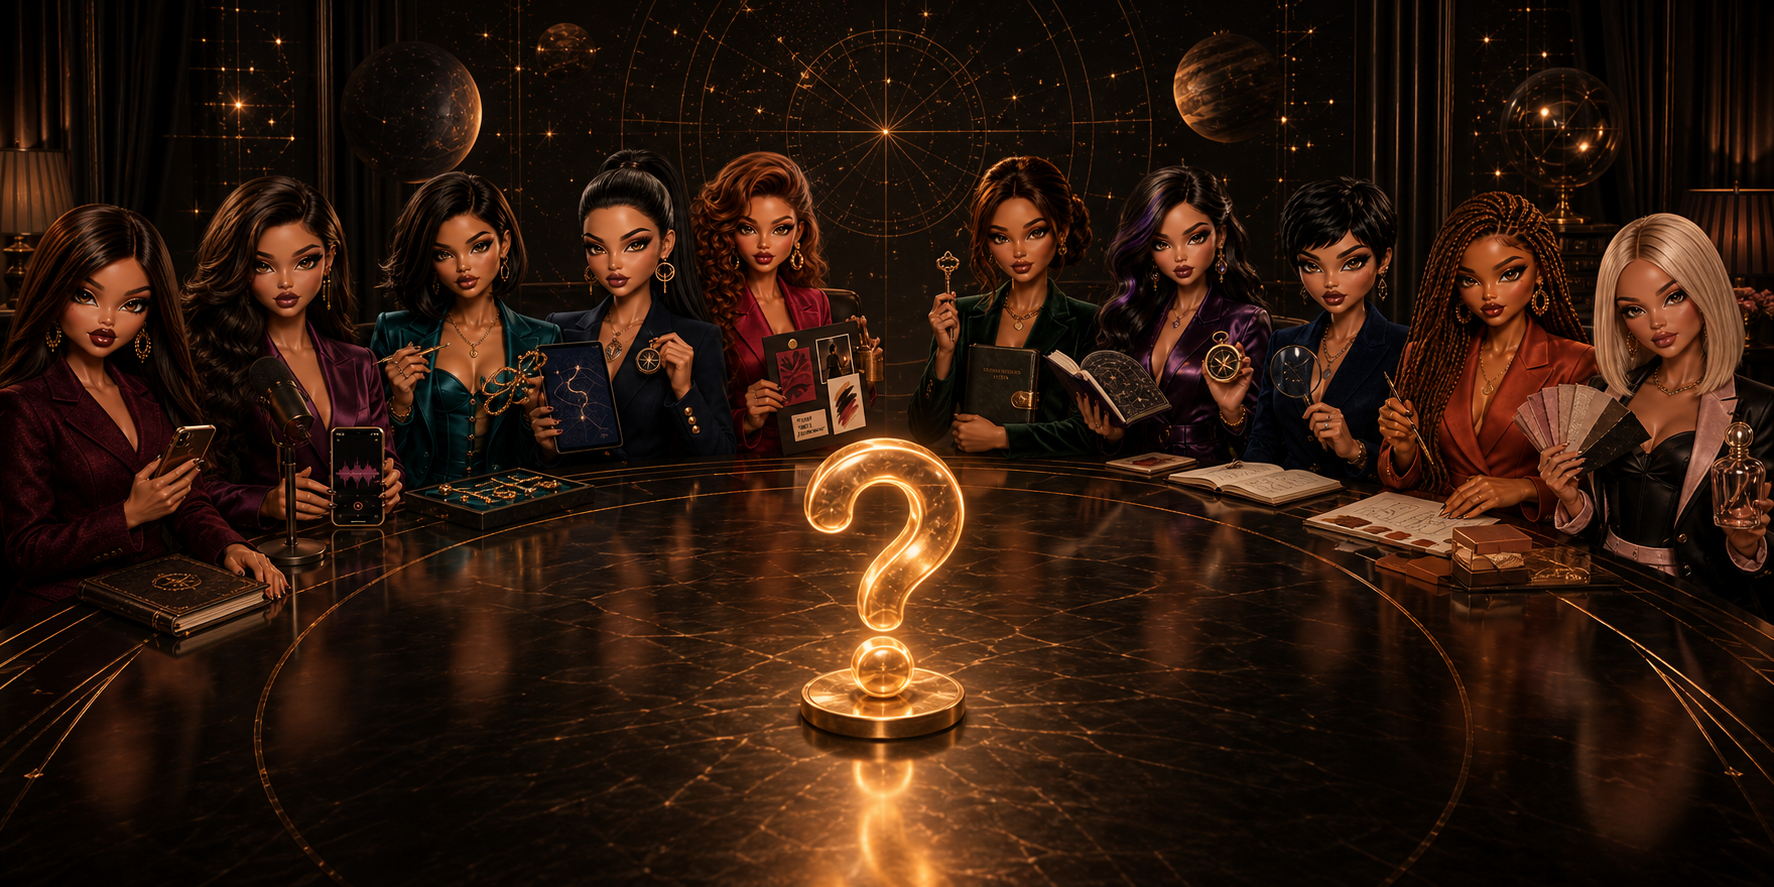
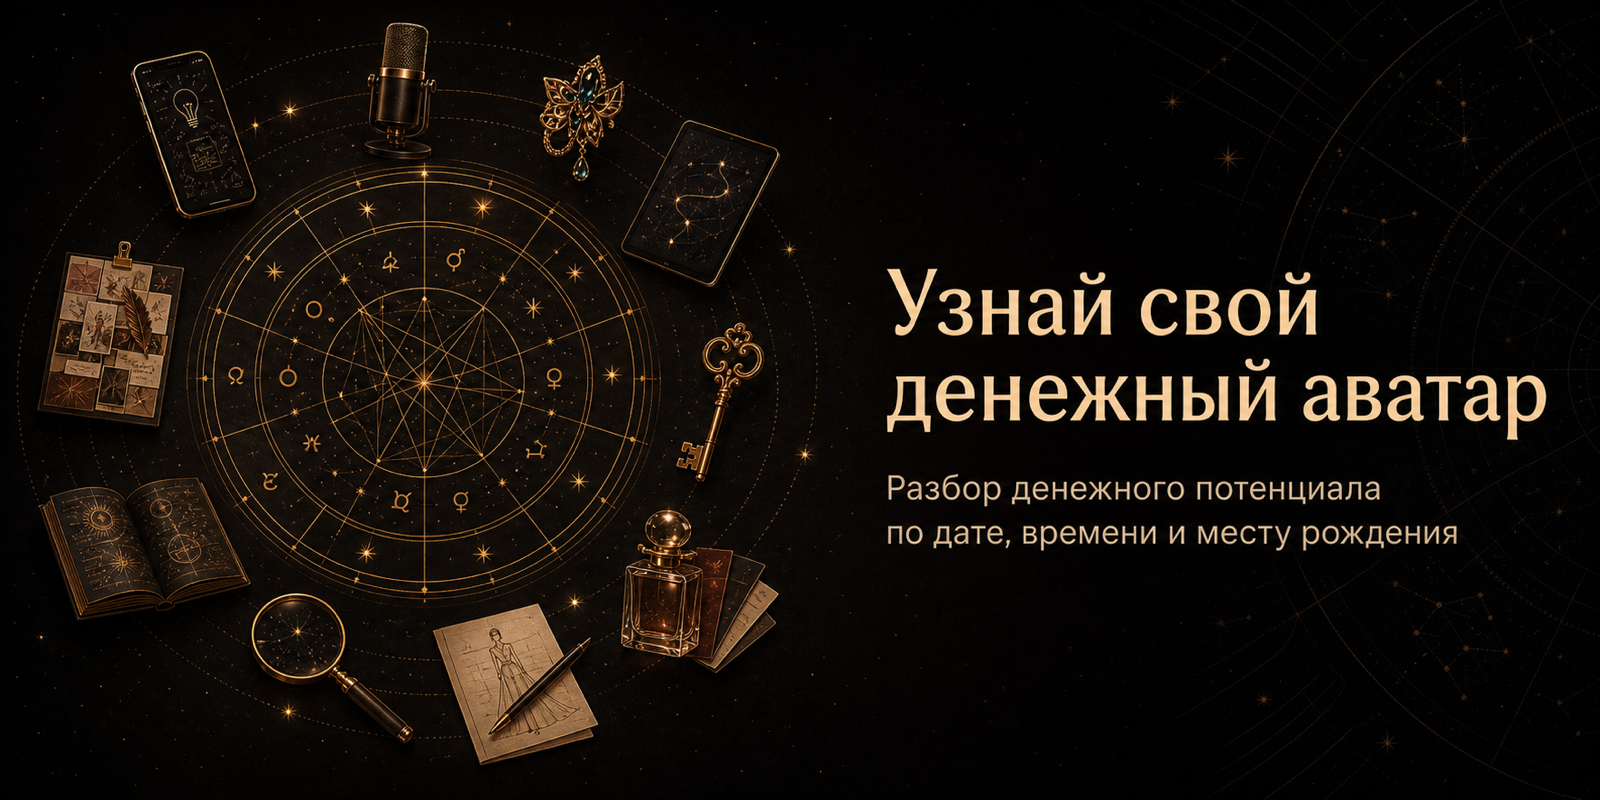
feat: add welcome screen before consent

diff --git a/tests/test_bot_copy.py b/tests/test_bot_copy.py
@@ -1,5 +1,6 @@
 from __future__ import annotations
 
+import hashlib
 import re
 from datetime import UTC, date, datetime
 from pathlib import Path
@@ -19,7 +20,10 @@ from money_profile_bot.bot.router import (
     _request_data_deletion,
     _sales_keyboard,
     _send_free_avatar,
+    _show_consent,
+    _welcome_keyboard,
     build_router,
+    form_reminder_payload,
 )
 from money_profile_bot.bot.states import DeleteForm, ProfileForm
 from money_profile_bot.config import Settings
@@ -31,6 +35,7 @@ from money_profile_bot.services.avatar import (
     INTRO_CAPTION,
     SALES_MESSAGE_TEXT,
     STRENGTH_OFFER_CAPTION,
+    WELCOME_CAPTION,
     AvatarAssets,
     avatar_free_caption,
     avatar_paid_caption,
@@ -47,9 +52,32 @@ REQUIRED_HEADINGS = (
 )
 
 
-def test_intro_copy_and_image_are_complete() -> None:
+def test_welcome_copy_and_image_match_start_screen() -> None:
     assets = AvatarAssets(ASSET_DIRECTORY)
-    assert assets.first_message_image().is_file()
+    image_path = assets.first_message_image()
+    assert image_path.is_file()
+    assert hashlib.sha256(image_path.read_bytes()).hexdigest() == (
[1 lines of base64/hex data omitted]
+    )
+    assert (
+        WELCOME_CAPTION
+        == """<b>Что умеет этот бот?</b>
+🌟 Я определю твой Денежный аватар по дате, точному времени и месту рождения.
+
+Ты узнаешь, через что тебе легче зарабатывать, проявляться и продавать — и какие особенности твоей натальной карты влияют на отношения с деньгами.
+
+Это не гороскоп по знаку зодиака, а разбор твоей индивидуальной карты.
+
+💫 Денежный аватар — бесплатно.
+Внутри можно раскрыть его глубже: профессии, формат работы, проявленность, денежная ловушка и конкретный следующий шаг.
+Нажми «Старт» ✨"""
+    )
+    button = _welcome_keyboard().inline_keyboard[0][0]
+    assert button.text == "Старт"
+    assert button.callback_data == "welcome:start"
+
+
+def test_consent_copy_is_complete() -> None:
     assert INTRO_CAPTION.startswith("Узнай свой Денежный аватар 💫")
     assert "А кто ты среди них?" in INTRO_CAPTION
     assert "соглашаешься на обработку даты, времени и места рождения" in INTRO_CAPTION
@@ -141,6 +169,10 @@ def test_form_reminder_keeps_callback_buttons_and_drops_url_rows() -> None:
     buttons = _reminder_buttons(_intro_keyboard(Settings(_env_file=None)))
 
     assert buttons == ((("Согласна, продолжить", "consent:yes"),),)
+    assert form_reminder_payload(ProfileForm.welcome.state, {}) == (
+        "Нажми «Старт», чтобы узнать свой Денежный аватар.",
+        ((("Старт", "welcome:start"),),),
+    )
 
 
 @pytest.mark.asyncio
@@ -166,17 +198,35 @@ async def test_closed_test_middleware_blocks_non_member_but_keeps_legal_commands
 
 
 @pytest.mark.asyncio
-async def test_begin_sends_intro_photo_and_skips_age_gate() -> None:
+async def test_begin_sends_welcome_photo_and_start_button() -> None:
+    message = AsyncMock()
+    state = AsyncMock()
+    assets = AvatarAssets(ASSET_DIRECTORY)
+
+    await _begin(message, state, assets)
+
+    state.set_state.assert_awaited_once_with(ProfileForm.welcome)
+    kwargs = message.answer_photo.await_args.kwargs
+    assert kwargs["caption"] == WELCOME_CAPTION
+    buttons = kwargs["reply_markup"].inline_keyboard
+    assert len(buttons) == 1
+    assert buttons[0][0].text == "Старт"
+    assert buttons[0][0].callback_data == "welcome:start"
+
+
+@pytest.mark.asyncio
+async def test_start_button_opens_legal_consent_before_birth_data() -> None:
     message = AsyncMock()
     state = AsyncMock()
     settings = Settings(_env_file=None)
-    assets = AvatarAssets(ASSET_DIRECTORY)
 
-    await _begin(message, state, settings, assets)
+    await _show_consent(message, state, settings)
 
     state.set_state.assert_awaited_once_with(ProfileForm.consent)
-    kwargs = message.answer_photo.await_args.kwargs
-    assert kwargs["caption"] == INTRO_CAPTION
+    message.answer.assert_awaited_once()
+    args = message.answer.await_args.args
+    kwargs = message.answer.await_args.kwargs
+    assert args == (INTRO_CAPTION,)
     buttons = kwargs["reply_markup"].inline_keyboard
     assert buttons[1][0].text == "Текст согласия"
     assert buttons[1][0].url == f"{settings.public_base_url}/consent"

diff --git a/src/money_profile_bot/bot/router.py b/src/money_profile_bot/bot/router.py
@@ -29,6 +29,7 @@ from money_profile_bot.models import OrderStatus
 from money_profile_bot.services.astro import calculate_chart
 from money_profile_bot.services.avatar import (
     INTRO_CAPTION,
+    WELCOME_CAPTION,
     AvatarAssets,
     avatar_free_caption,
     sales_telegram_url,
@@ -40,6 +41,8 @@ from money_profile_bot.services.rules import generate_profile, validate_generate
 from money_profile_bot.services.store import ReminderButtons, Store
 
 START_RE = re.compile(r"^[A-Za-z0-9_-]{1,64}$")
+WELCOME_BUTTON_TEXT = "Старт"
+WELCOME_REMINDER_PROMPT = "Нажми «Старт», чтобы узнать свой Денежный аватар."
 CONSENT_BUTTON_TEXT = "Согласна, продолжить"
 CONSENT_REMINDER_PROMPT = (
     "Нажми «Согласна, продолжить», чтобы подтвердить согласие и перейти к анкете."
@@ -149,6 +152,11 @@ def _confirmation_text(data: dict[str, Any], selected: dict[str, Any]) -> str:
 
 
 def form_reminder_payload(state: str, data: dict[str, Any]) -> tuple[str, ReminderButtons] | None:
+    if state == ProfileForm.welcome.state:
+        return (
+            WELCOME_REMINDER_PROMPT,
+            (((WELCOME_BUTTON_TEXT, "welcome:start"),),),
+        )
     if state == ProfileForm.consent.state:
         return (
             CONSENT_REMINDER_PROMPT,
@@ -224,6 +232,10 @@ def _intro_keyboard(settings: Settings) -> InlineKeyboardMarkup:
     )
 
 
+def _welcome_keyboard() -> InlineKeyboardMarkup:
+    return _keyboard((WELCOME_BUTTON_TEXT, "welcome:start"))
+
+
 def _sales_keyboard(settings: Settings) -> InlineKeyboardMarkup:
     return InlineKeyboardMarkup(
         inline_keyboard=[
@@ -240,14 +252,26 @@ def _sales_keyboard(settings: Settings) -> InlineKeyboardMarkup:
 async def _begin(
     message: Message,
     state: FSMContext,
-    settings: Settings,
     avatars: AvatarAssets,
 ) -> None:
     await state.clear()
-    await state.set_state(ProfileForm.consent)
+    await state.set_state(ProfileForm.welcome)
     await message.answer_photo(
         FSInputFile(avatars.first_message_image()),
-        caption=INTRO_CAPTION,
+        caption=WELCOME_CAPTION,
+        reply_markup=_welcome_keyboard(),
+    )
+
+
+async def _show_consent(
+    message: Message,
+    state: FSMContext,
+    settings: Settings,
+) -> None:
+    await state.clear()
+    await state.set_state(ProfileForm.consent)
+    await message.answer(
+        INTRO_CAPTION,
         reply_markup=_intro_keyboard(settings),
     )
 
@@ -336,11 +360,11 @@ def build_router(
         await _schedule_form_reminder(
             store,
             message.from_user.id,
-            state="consent",
-            text=CONSENT_REMINDER_PROMPT,
-            reply_markup=_intro_keyboard(settings),
+            state="welcome",
+            text=WELCOME_REMINDER_PROMPT,
+            reply_markup=_welcome_keyboard(),
         )
-        await _begin(message, state, settings, avatars)
+        await _begin(message, state, avatars)
         if newly_claimed_admin:
             await message.answer(
                 "Вы назначены администратором тестового бота. Команда статистики: /stats."
@@ -353,6 +377,20 @@ def build_router(
         if message.from_user:
             await store.cancel_form_reminder(message.from_user.id)
         await _request_data_deletion(message, state)
+
+    @router.callback_query(ProfileForm.welcome, F.data == "welcome:start")
+    async def welcome_start(callback: CallbackQuery, state: FSMContext) -> None:
+        await callback.answer()
+        await store.cancel_form_reminder(callback.from_user.id)
+        if isinstance(callback.message, Message):
+            await _schedule_form_reminder(
+                store,
+                callback.from_user.id,
+                state="consent",
+                text=CONSENT_REMINDER_PROMPT,
+                reply_markup=_intro_keyboard(settings),
+            )
+            await _show_consent(callback.message, state, settings)
 
     @router.callback_query(ProfileForm.consent, F.data == "consent:yes")
     async def consent(callback: CallbackQuery, state: FSMContext) -> None:
@@ -587,7 +625,7 @@ def build_router(
                 text=CONSENT_REMINDER_PROMPT,
                 reply_markup=_intro_keyboard(settings),
             )
-            await _begin(callback.message, state, settings, avatars)
+            await _show_consent(callback.message, state, settings)
 
     @router.callback_query(ProfileForm.confirm, F.data == "form:confirm")
     async def form_confirm(callback: CallbackQuery, state: FSMContext) -> None:

diff --git a/src/money_profile_bot/services/avatar.py b/src/money_profile_bot/services/avatar.py
@@ -4,6 +4,17 @@ from dataclasses import dataclass
 from pathlib import Path
 from urllib.parse import quote
 
+WELCOME_CAPTION = """<b>Что умеет этот бот?</b>
+🌟 Я определю твой Денежный аватар по дате, точному времени и месту рождения.
+
+Ты узнаешь, через что тебе легче зарабатывать, проявляться и продавать — и какие особенности твоей натальной карты влияют на отношения с деньгами.
+
+Это не гороскоп по знаку зодиака, а разбор твоей индивидуальной карты.
+
+💫 Денежный аватар — бесплатно.
+Внутри можно раскрыть его глубже: профессии, формат работы, проявленность, денежная ловушка и конкретный следующий шаг.
+Нажми «Старт» ✨"""
+
 INTRO_CAPTION = """Узнай свой Денежный аватар 💫
 
 Мой авторский метод, который покажет, <b>через что тебе легче создавать ценность, проявляться, продавать и приходить к доходу.</b>

diff --git a/src/money_profile_bot/bot/states.py b/src/money_profile_bot/bot/states.py
@@ -2,6 +2,7 @@ from aiogram.fsm.state import State, StatesGroup
 
 
 class ProfileForm(StatesGroup):
+    welcome = State()
     consent = State()
     name = State()
     birth_date = State()
